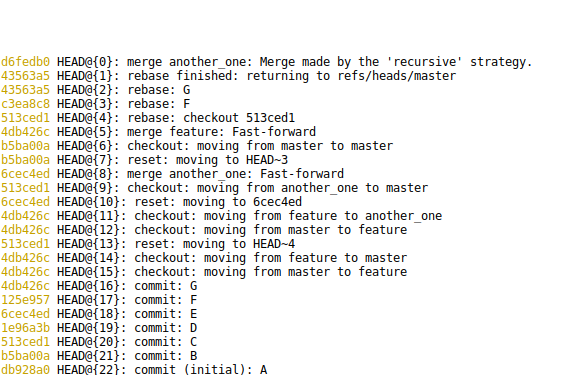
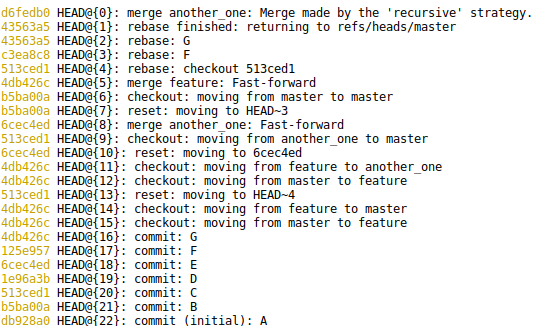
minor cleanup on images, some style changes

diff --git a/slides/aml-02-012317-python-git-testing/index.html b/slides/aml-02-012317-python-git-testing/index.html
@@ -15,6 +15,8 @@
       h1, h2 {
         font-family: 'Garamond';
         font-weight: normal;
+        margin-top: 10px;
+        margin-bottom: 10px;
       }
       .remark-slide-content h1 {
         font-size: 70px;
@@ -23,12 +25,23 @@
 
       .remark-slide-content p, .remark-slide-content li {
         font-size:40px;
-        line-height: 1.6;
+        line-height: 1.4;
+      }
+      .remark-slide-content p {
+          margin: 5px;
       }
       .remark-slide-content .compact {
           font-size: 30px;
           line-height: 1.1;
           display: block;
+      } 
+
+      .remark-slide-content .smaller p, .remark-slide-content .smaller li{
+          font-size: 20px;
+      }
+
+      .normal {
+          font-size: 30px;
       }
 
       .larger {
@@ -86,6 +99,8 @@ So you all have used git, but who of you thinks they understand git? Ok I’ll k
 
 ---
 
+class: center, middle
+
 ![:scale 40%](images/git_xkcd.png)
 
 ???
@@ -94,6 +109,8 @@ Who of you have done that? I certainly have.
 The goal of today is that you never have to throw your hands up ever again.
 
 ---
+
+class: center, middle
 
 ![:scale 40%](images/torvalds_ducreux.jpg)
 
@@ -164,7 +181,7 @@ I want to give some basic tips that will help you even with these simple workflo
 
 - Install shell plugins for status and branch (`oh-my-zsh`)
 
-![:scale 40%](images/git_shell_extension.png)
+![:scale 90%](images/git_shell_extension.png)
 
 - Set editor, pager and diff-tool (check out meld!)
 
@@ -180,7 +197,7 @@ You should also set your editor and pager to something that is familiar to you. 
 
 # Git log
 
-![:scale 40%](images/git_log.png)
+![:scale 80%](images/git_log.png)
 
 ???
 You should also become friends with git log. Git log allows you to view the history of your repository. It has a couple of very helpful options. Plain git log will have very long output and show full commit messages.
@@ -192,7 +209,9 @@ You might want to alias a command like that because it’s rather long to type, 
 
 ---
 
-![:scale 40%](images/git_adog.png)
+class: center, middle
+
+![:scale 50%](images/git_adog.png)
 
 ???
 
@@ -224,26 +243,28 @@ The state of you repository is really much more than the state of the directory,
 
 # Commands - And what they do
 
-- `git add`
+.smaller[
+- .normal[`git add`]<br />
 puts files from working director into staging area. If not in index, adds them to tracked files.
 
-- `git commit`
+- .normal[`git commit`]<br />
 commits files from staging area (index) to repository, moves current branch with HEAD
 
-- `git checkout [<commit>] [<file>]`
+- .normal[`git checkout [<commit>] [<file>]`]<br />
 Set `<file>` in working directory to state at `<commit>` and stages it.
 
-- `git checkout [-b] <branch>`
+- .normal[`git checkout [-b] <branch>`]<br />
 moves HEAD to `<branch>` (-b creates it), changes content of working dir
 
-- `git reset --soft <commit>`
+- .normal[`git reset --soft <commit>`]<br />
 moves HEAD to `<commit>` (takes the current branch with it)
 
-- `git reset --mixed <commit>`
+- .normal[`git reset --mixed <commit>`]<br />
 moves HEAD to `<commit>`,  changes index to be at `<commit>` (but not working directory)
 
-- `git reset --hard <commit>`
+- .normal[`git reset --hard <commit>`]<br />
 moved HEAD to `<commit>`, changes index and working tree to `<commit>`.
+]
 
 ???
 Ok so now, let’s got through some of the commands and talk about what they do in terms of these five concepts
@@ -256,11 +277,11 @@ Ok so now, let’s got through some of the commands and talk about what they do 
 
 - Fast-forward merge:
 
-![scale:80%](images/git_fast_forward_merge.png)
+![:scale 90%](images/git_fast_forward_merge.png)
 
 - Merge-commits:
 
-![scale:80%](images/git_merge_commit.png)
+![:scale 90%](images/git_merge_commit.png)
 
 ???
 And then there’s the more complex operations to the index, merging and rebasing. They change the index, and possibly the working tree. I find it most helpful to think of them as graph operations on the index.
@@ -273,18 +294,17 @@ However, if one isn’t a descendant of the other, git will create a “merge co
 
 # Rebase
 
-- Rebase
+- Rebase<br/>
+![:scale 50%](images/git_rebase1.png)
 
-![scale:80%](images/git_rebase1.png)
-
-- Rebase onto
+- Rebase onto<br />
+`git rebase --onto master next`
 .left-column[
-![scale:80%](images/git_rebase2.png)
+![:scale 80%](images/git_rebase2.png)
 ]
 .right-column[
-![scale:80%](images/git_rebase3.png)
+![:scale 80%](images/git_rebase3.png)
 ]
-`git rebase --onto master next`
 
 ???
 Rebase is a whole different beast. It allows more or less arbitrary modifications of the graph, and therefore rewriting history.
@@ -311,7 +331,7 @@ One way to squash commits is using interactive rebase
 
 `git rebase -i <commit>`
 
-![scale:80%](images/git_interactive_rebase.png)
+![:scale 66%](images/git_interactive_rebase.png)
 
 ???
 You can make any rebase interactive, but it’s most common to rebase on an ancestor with interactive – a non-interactive rebase would have no consequences.
@@ -321,7 +341,7 @@ Interactive can be useful for cleaning up your history after you worked on a fea
 ---
 # Interactive adding
 
-![scale:80%](images/git_interactive_add.png)
+![:scale 55%](images/git_interactive_add.png)
 
 ???
 What I find even more important is interactive adding. With git add, you usually add whole files to the staging area. I rarely ever do that. Usually I want to check line by line what changes I made and what changes I want to commit.
@@ -330,10 +350,11 @@ However, the command line interface is a bit clumsy for my taste. Or maybe I’m
 I prefer a gui, which you can summon with git gui
 
 ---
+class: center, middle
 
 # git gui
 
-![scale:80%](images/git_gui.png)
+![:scale 80%](images/git_gui.png)
 
 ???
 Git gui is basically an interface for git add and git commit. You can also use it to push, but not much more.
@@ -341,10 +362,11 @@ This is the way I create most of my commits. You can see very easily which files
 Then you enter the commit message here, and click commit.
 
 ---
+class: center, middle
 
 # gitk
 
-![scale:80%](images/gitk.png)
+![:scale 80%](images/gitk.png)
 
 ???
 Another tool that I use all the time is gitk.
@@ -358,7 +380,7 @@ You can also use gitk to search commit messages, and there are many option on wh
 
 # reflog
 
-![scale:80%](images/git_reflog.png)
+![:scale 80%](images/git_reflog.png)
 
 ???
 The last command I want to mention is reflog.
